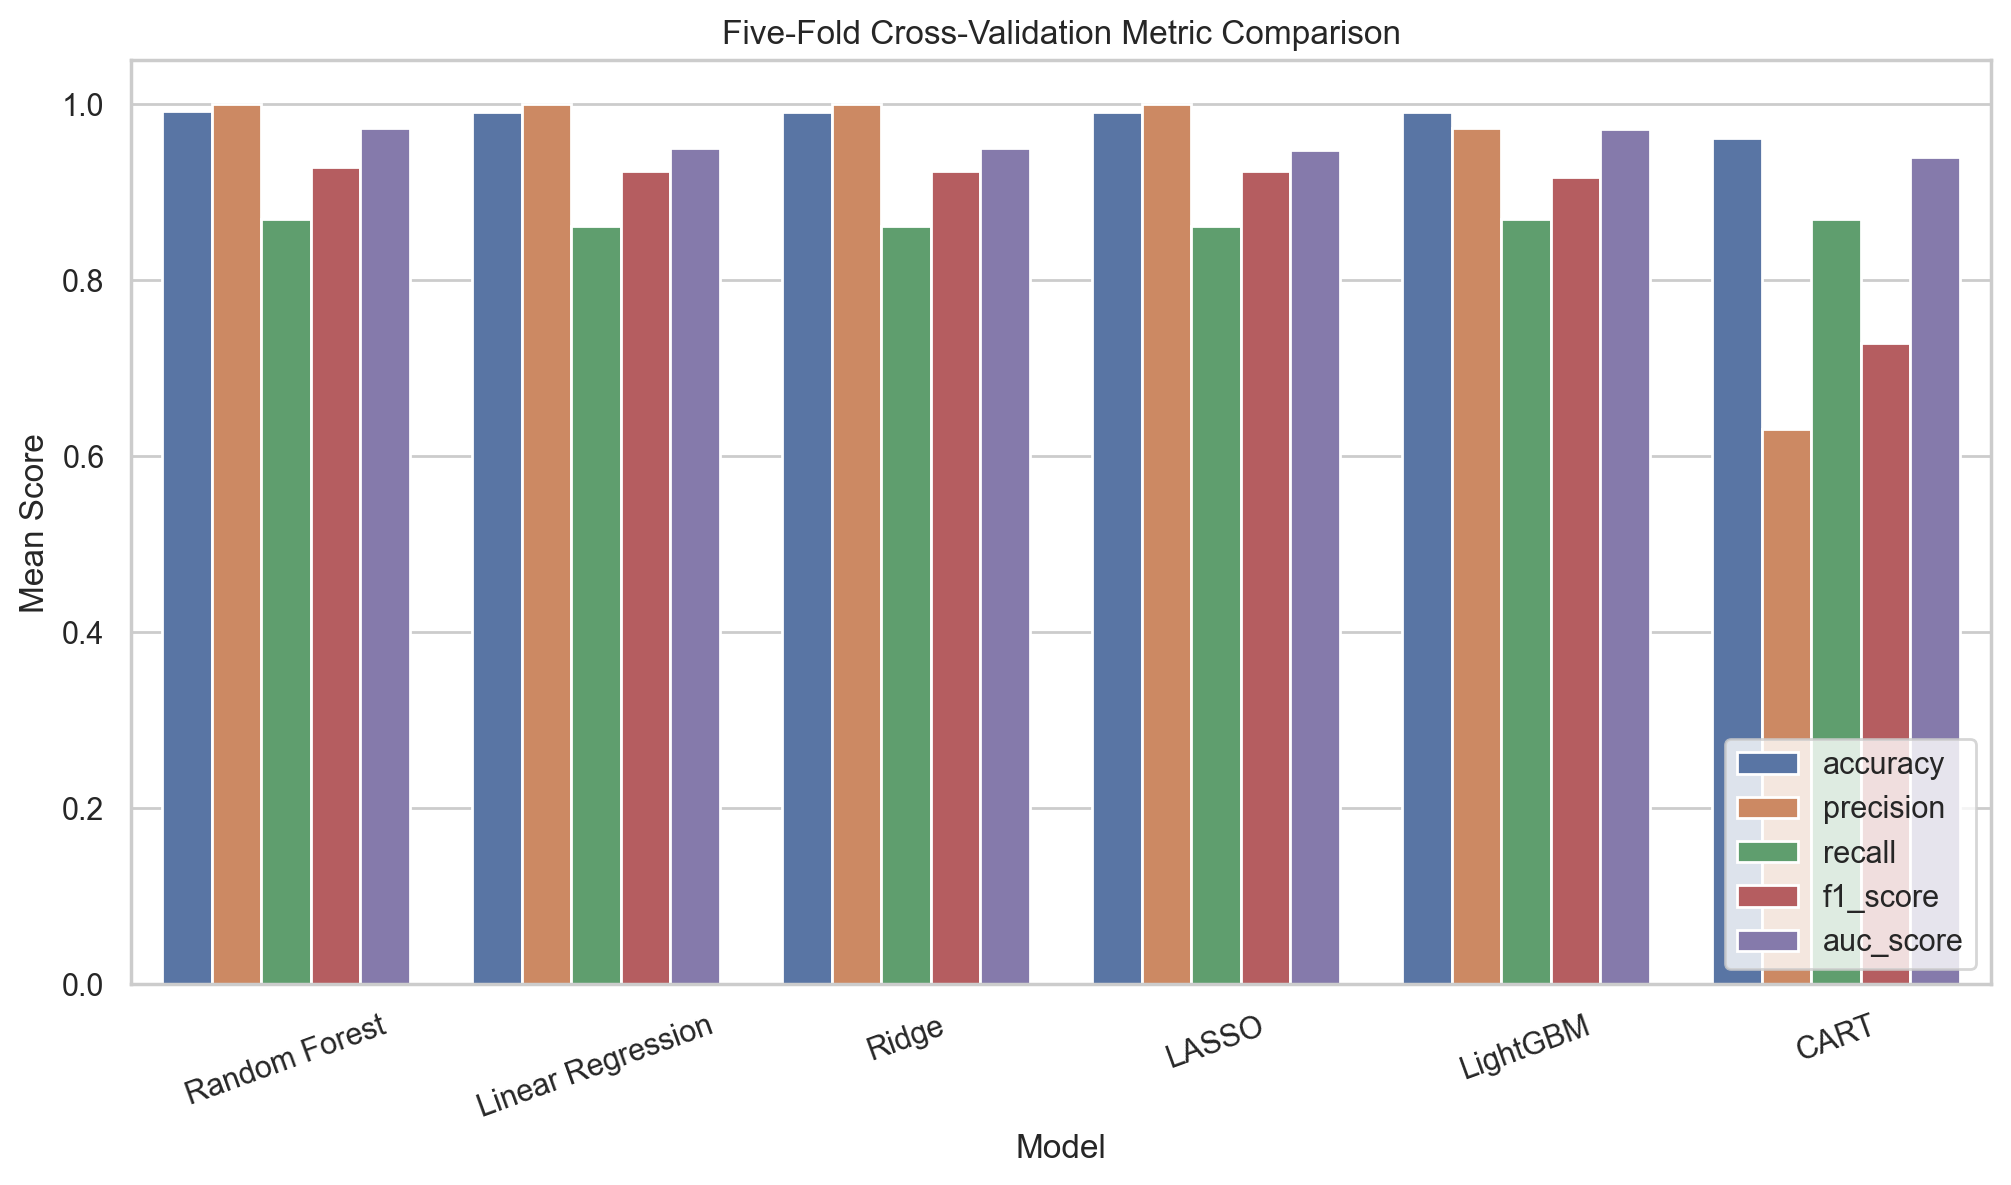
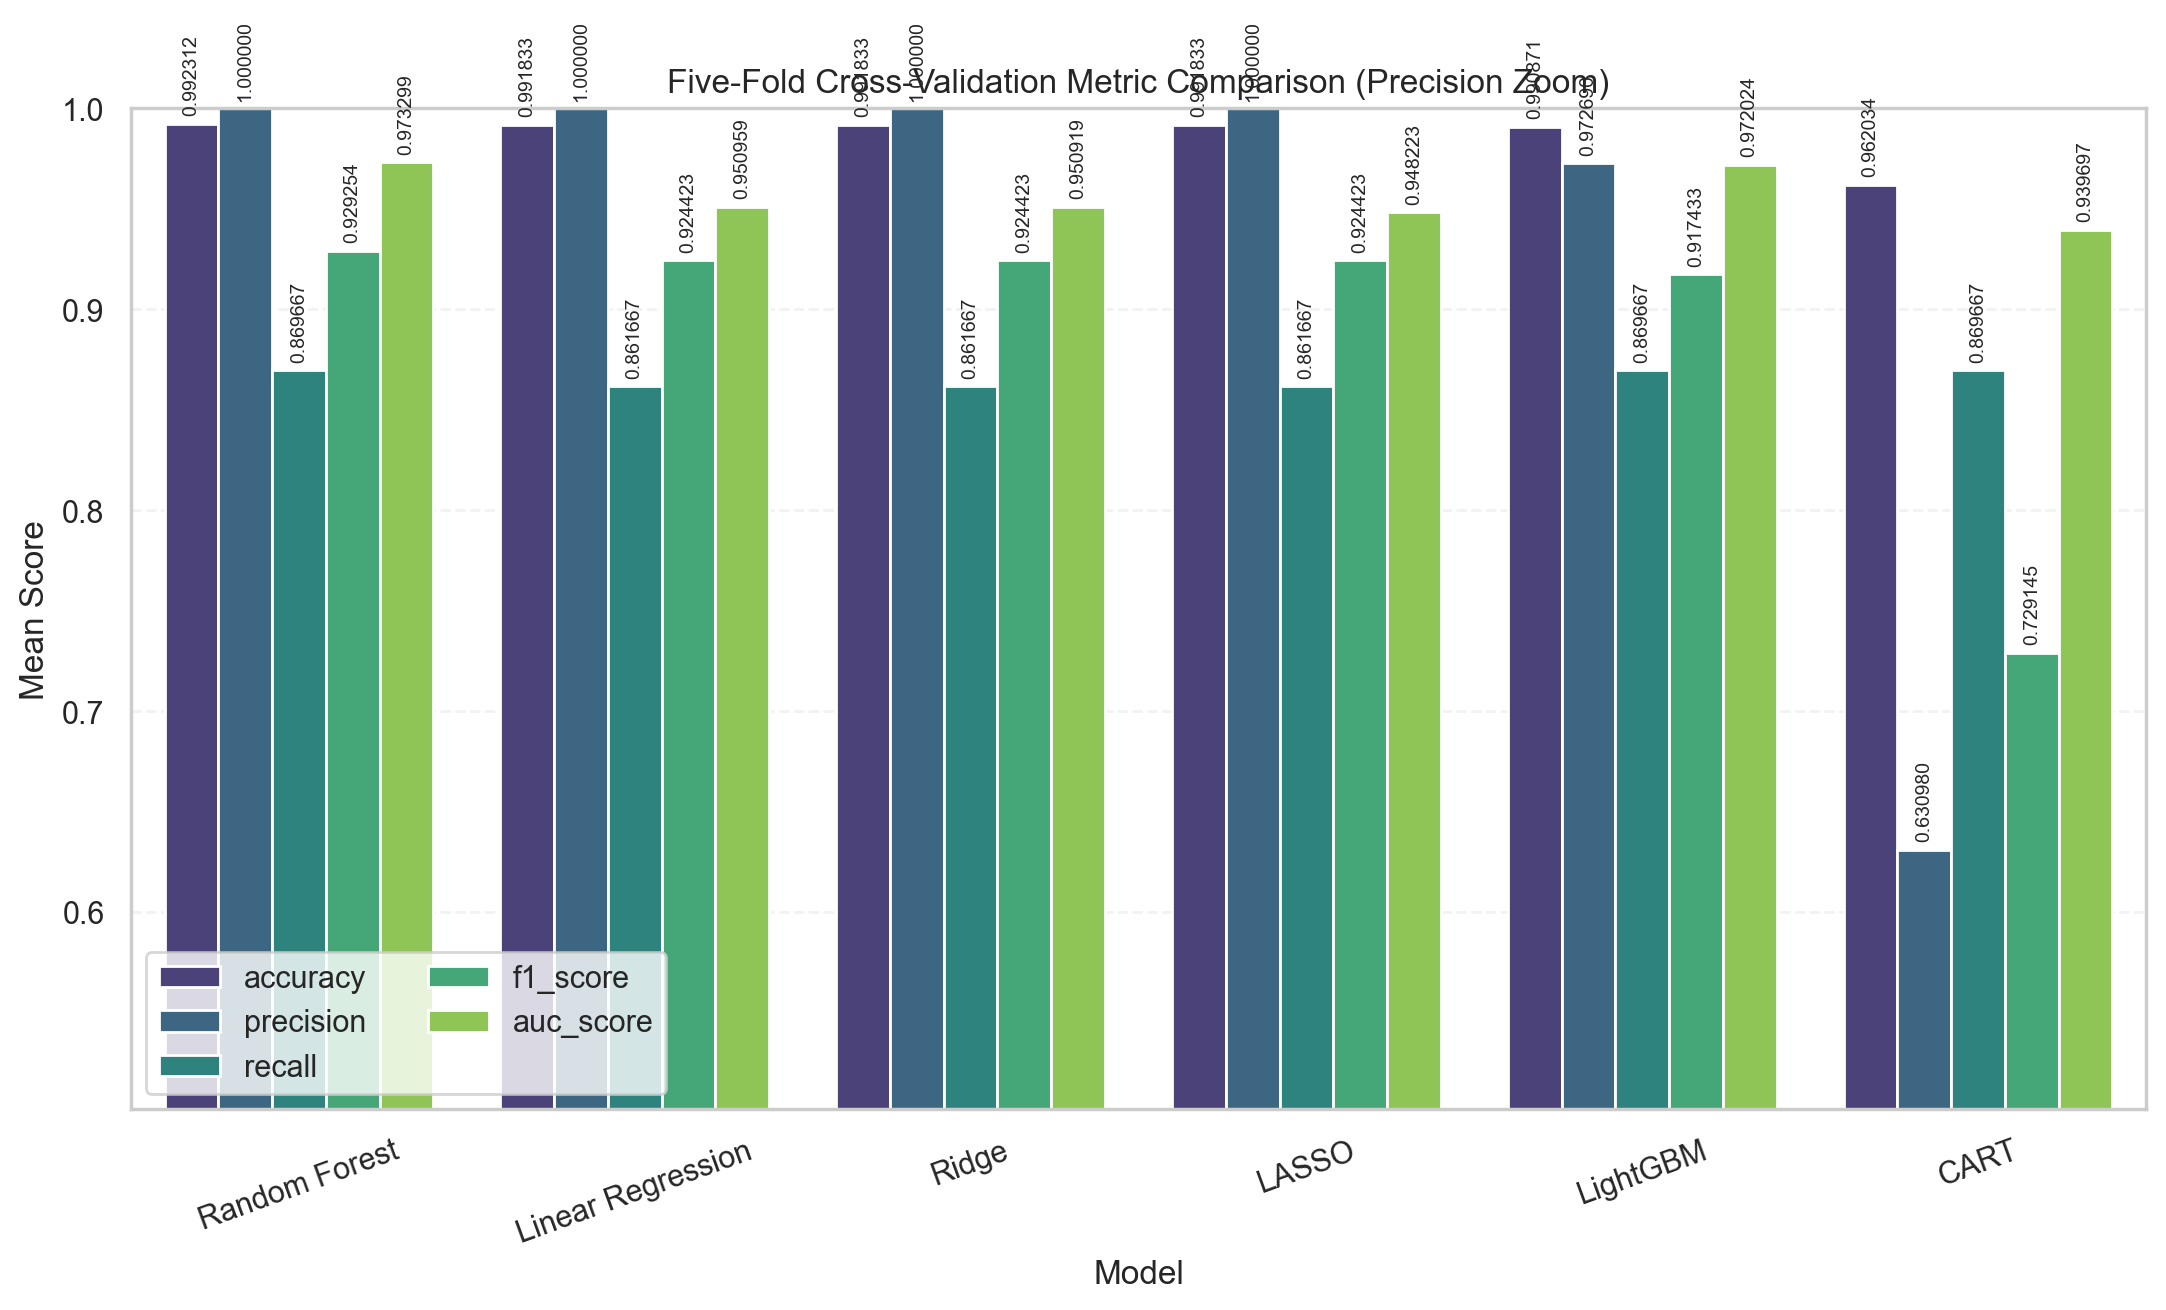
Cleaed streamlit app to properly align tabs and add correlation matrix and feature weight visualizations.

diff --git a/src/email_classification_pipeline.py b/src/email_classification_pipeline.py
@@ -469,6 +469,124 @@ def _make_feature_distribution_figure(df: pd.DataFrame, features: List[str]) -> 
     return fig
 
 
+def _make_feature_class_heatmap(df: pd.DataFrame, features: List[str]) -> plt.Figure:
+    chosen = features[: min(10, len(features))]
+    class_means = (
+        df.groupby("is_job")[chosen]
+        .mean()
+        .rename(index={0: "Not Job", 1: "Job"})
+    )
+    fig, ax = plt.subplots(figsize=(12, 4.8))
+    sns.heatmap(class_means, annot=True, fmt=".3f", cmap="crest", linewidths=0.4, ax=ax)
+    ax.set_title("Average Feature Levels Across Positive vs. Negative Emails")
+    ax.set_xlabel("Feature")
+    ax.set_ylabel("Class")
+    ax.tick_params(axis="x", rotation=25)
+    return fig
+
+
+def _make_feature_gap_figure(df: pd.DataFrame, features: List[str]) -> plt.Figure:
+    chosen = features[: min(10, len(features))]
+    comparison = df.groupby("is_job")[chosen].mean().T
+    comparison.columns = ["Not Job", "Job"]
+    comparison["gap"] = (comparison["Job"] - comparison["Not Job"]).abs()
+    comparison = comparison.sort_values("gap", ascending=True)
+
+    fig, ax = plt.subplots(figsize=(11, 6))
+    y_positions = np.arange(len(comparison))
+    ax.hlines(y=y_positions, xmin=comparison["Not Job"], xmax=comparison["Job"], color="#94a3b8", linewidth=2.5)
+    ax.scatter(comparison["Not Job"], y_positions, color="#f97316", s=80, label="Not Job", zorder=3)
+    ax.scatter(comparison["Job"], y_positions, color="#2563eb", s=80, label="Job", zorder=3)
+    ax.set_yticks(y_positions)
+    ax.set_yticklabels(comparison.index)
+    ax.set_title("Feature Mean Gaps Between Positive and Negative Emails")
+    ax.set_xlabel("Average Feature Value")
+    ax.set_ylabel("Feature")
+    ax.legend(loc="lower right")
+    ax.grid(axis="x", linestyle="--", alpha=0.25)
+    return fig
+
+
+def _make_negative_similarity_figure(df: pd.DataFrame, features: List[str]) -> plt.Figure:
+    chosen = features[: min(6, len(features))]
+    scaled_values = StandardScaler().fit_transform(df[chosen])
+    scaled = pd.DataFrame(scaled_values, columns=chosen, index=df.index)
+
+    positive_mask = df["is_job"] == 1
+    negative_mask = df["is_job"] == 0
+    positive_centroid = scaled.loc[positive_mask, chosen].mean()
+    negative_distances = np.sqrt(((scaled.loc[negative_mask, chosen] - positive_centroid) ** 2).sum(axis=1))
+
+    near_threshold = negative_distances.quantile(0.25)
+    far_threshold = negative_distances.quantile(0.75)
+    segment_map = pd.Series("Other Negatives", index=df.index)
+    segment_map.loc[positive_mask] = "Positive Emails"
+    segment_map.loc[negative_distances.index[negative_distances <= near_threshold]] = "Similar Negatives"
+    segment_map.loc[negative_distances.index[negative_distances >= far_threshold]] = "Distant Negatives"
+
+    segment_frame = scaled.copy()
+    segment_frame["segment"] = segment_map
+    segment_profile = (
+        segment_frame[segment_frame["segment"].isin(["Positive Emails", "Similar Negatives", "Distant Negatives"])]
+        .groupby("segment")[chosen]
+        .mean()
+        .reindex(["Positive Emails", "Similar Negatives", "Distant Negatives"])
+    )
+
+    fig, axes = plt.subplots(1, 2, figsize=(14, 5.2), gridspec_kw={"width_ratios": [1.0, 1.1]})
+    axes[0].hist(negative_distances, bins=20, color="#7c3aed", alpha=0.78, edgecolor="white")
+    axes[0].axvline(near_threshold, color="#0f766e", linestyle="--", linewidth=2, label="Similar cutoff")
+    axes[0].axvline(far_threshold, color="#dc2626", linestyle="--", linewidth=2, label="Distant cutoff")
+    axes[0].set_title("How Close Negative Emails Are to the Job-Email Profile")
+    axes[0].set_xlabel("Distance to Positive Centroid")
+    axes[0].set_ylabel("Negative Email Count")
+    axes[0].legend(loc="upper right")
+
+    sns.heatmap(segment_profile, cmap="rocket", center=0, annot=True, fmt=".2f", ax=axes[1])
+    axes[1].set_title("Standardized Feature Profile: Similar vs. Distant Negatives")
+    axes[1].set_xlabel("Feature")
+    axes[1].set_ylabel("Segment")
+    axes[1].tick_params(axis="x", rotation=25)
+    fig.tight_layout()
+    return fig
+
+
+def _make_single_feature_focus_figure(df: pd.DataFrame, feature_name: str) -> plt.Figure:
+    focus_frame = df[[feature_name, "is_job"]].copy()
+    focus_frame["class"] = focus_frame["is_job"].map({0: "Not Job", 1: "Job"})
+
+    fig, axes = plt.subplots(1, 2, figsize=(13.5, 5.0), gridspec_kw={"width_ratios": [1.3, 1.0]})
+    sns.histplot(
+        data=focus_frame,
+        x=feature_name,
+        hue="class",
+        element="step",
+        stat="density",
+        common_norm=False,
+        fill=True,
+        alpha=0.35,
+        palette={"Not Job": "#f97316", "Job": "#2563eb"},
+        ax=axes[0],
+    )
+    axes[0].set_title(f"Distribution of {feature_name} by Class")
+    axes[0].set_xlabel(feature_name)
+    axes[0].set_ylabel("Density")
+
+    sns.boxplot(
+        data=focus_frame,
+        x="class",
+        y=feature_name,
+        palette={"Not Job": "#f97316", "Job": "#2563eb"},
+        ax=axes[1],
+    )
+    axes[1].set_title(f"{feature_name} Spread by Class")
+    axes[1].set_xlabel("Class")
+    axes[1].set_ylabel(feature_name)
+
+    fig.tight_layout()
+    return fig
+
+
 def _make_model_comparison_figure(model_metrics: pd.DataFrame) -> plt.Figure:
     metric_columns = ["accuracy", "precision", "recall", "f1_score", "auc_score"]
     chart_frame = model_metrics[["model"] + metric_columns].melt(id_vars="model", var_name="metric", value_name="score")
@@ -477,15 +595,22 @@ def _make_model_comparison_figure(model_metrics: pd.DataFrame) -> plt.Figure:
     score_span = max(max_score - min_score, 0.0025)
     lower_bound = max(0.0, min_score - (score_span * 0.35))
     upper_bound = min(1.0, max_score + (score_span * 0.2))
+    palette = {
+        "accuracy": "#2563eb",
+        "precision": "#f97316",
+        "recall": "#0f766e",
+        "f1_score": "#7c3aed",
+        "auc_score": "#dc2626",
+    }
 
     fig, ax = plt.subplots(figsize=(13, 6.5))
-    sns.barplot(data=chart_frame, x="model", y="score", hue="metric", ax=ax, palette="viridis")
+    sns.barplot(data=chart_frame, x="model", y="score", hue="metric", ax=ax, palette=palette)
     ax.set_title("Five-Fold Cross-Validation Metric Comparison (Precision Zoom)")
     ax.set_xlabel("Model")
     ax.set_ylabel("Mean Score")
     ax.set_ylim(lower_bound, upper_bound)
     ax.tick_params(axis="x", rotation=20)
-    ax.legend(loc="lower left", ncol=2)
+    ax.legend(loc="lower left", ncol=3)
 
     for patch in ax.patches:
         height = patch.get_height()
@@ -562,10 +687,11 @@ def generate_figures(
         "feature_weights": _make_feature_weight_figure(feature_weights),
         "selected_feature_correlation": _make_correlation_heatmap(correlation_matrix, top_features),
         "feature_distribution": _make_feature_distribution_figure(filtered_features, top_features),
+        "feature_class_heatmap": _make_feature_class_heatmap(filtered_features, top_features),
+        "feature_gap": _make_feature_gap_figure(filtered_features, top_features),
+        "negative_similarity": _make_negative_similarity_figure(filtered_features, top_features),
         "model_comparison": _make_model_comparison_figure(model_metrics),
     }
-
-
 def persist_artifacts(artifacts: PipelineArtifacts, output_dir: Path) -> None:
     output_dir.mkdir(parents=True, exist_ok=True)
     artifacts.model_metrics.to_csv(output_dir / "model_metrics.csv", index=False)
@@ -848,6 +974,9 @@ def streamlit_main() -> None:
         "Weighted Feature Importance Dashboard": artifacts.figures["feature_weights"],
         "Selected Feature Correlation Dashboard": artifacts.figures["selected_feature_correlation"],
         "Feature Distribution by Class Dashboard": artifacts.figures["feature_distribution"],
+        "Feature Class Heatmap Dashboard": artifacts.figures["feature_class_heatmap"],
+        "Feature Mean Gap Dashboard": artifacts.figures["feature_gap"],
+        "Negative Similarity Dashboard": artifacts.figures["negative_similarity"],
         "Precise Model Metric Comparison Dashboard": filtered_model_figure,
     }
     for shap_name, shap_figure in artifacts.shap_figures.items():
@@ -882,9 +1011,15 @@ def streamlit_main() -> None:
     with stat_row[4]:
         _render_stat_card("Positive Rate", _format_percent(positive_ratio), f"{summary['positive_class_count']} job emails after preprocessing")
 
-    model_tab, data_tab = st.tabs(["Model", "Data"])
+    st.markdown("#### Workspace")
+    view_mode = st.radio(
+        "Workspace",
+        options=["Model", "Data"],
+        horizontal=True,
+        label_visibility="collapsed",
+    )
 
-    with model_tab:
+    if view_mode == "Model":
         _render_section_chip("Hyper-Precise Comparison")
         controls_left, controls_right = st.columns([1.35, 1.0])
         with controls_left:
@@ -917,8 +1052,40 @@ def streamlit_main() -> None:
         st.pyplot(filtered_model_figure, clear_figure=False)
         st.caption("The y-axis is zoomed to the observed score range and every bar is labeled to six decimal places for tighter visual comparison.")
 
-    with data_tab:
+    if view_mode == "Data":
         _render_section_chip("Searchable Visual Explorer")
+        feature_focus = st.selectbox(
+            "Inspect one feature closely",
+            options=artifacts.feature_weights["feature"].tolist(),
+            index=0,
+            help="Choose any engineered feature to compare positive vs. negative email behavior directly.",
+        )
+        focus_figure = _make_single_feature_focus_figure(artifacts.feature_frame, feature_focus)
+        focus_summary = (
+            artifacts.feature_frame.groupby("is_job")[feature_focus]
+            .agg(["mean", "median", "std", "min", "max"])
+            .rename(index={0: "Not Job", 1: "Job"})
+            .reset_index(names="class")
+        )
+        for column in ["mean", "median", "std", "min", "max"]:
+            focus_summary[column] = focus_summary[column].map(_format_metric)
+
+        focus_left, focus_right = st.columns([1.3, 1.0])
+        with focus_left:
+            st.markdown("#### Feature spotlight")
+            st.pyplot(focus_figure, clear_figure=False)
+        with focus_right:
+            st.markdown("#### Feature summary by class")
+            st.dataframe(focus_summary, use_container_width=True, hide_index=True)
+
+        matrix_left, matrix_right = st.columns(2)
+        with matrix_left:
+            st.markdown("#### Correlation matrix spotlight")
+            st.pyplot(artifacts.figures["selected_feature_correlation"], clear_figure=False)
+        with matrix_right:
+            st.markdown("#### Feature weight spotlight")
+            st.pyplot(artifacts.figures["feature_weights"], clear_figure=False)
+
         st.markdown("#### Jump directly to a dashboard or SHAP view")
         selected_plot_name = st.selectbox(
             "Search and choose a plot",
@@ -1004,6 +1171,10 @@ if st is not None and "__streamlit__" not in dir(st):
 else:
     if __name__ == "__main__":
         cli_main()
+
+
+
+
 
 
 
